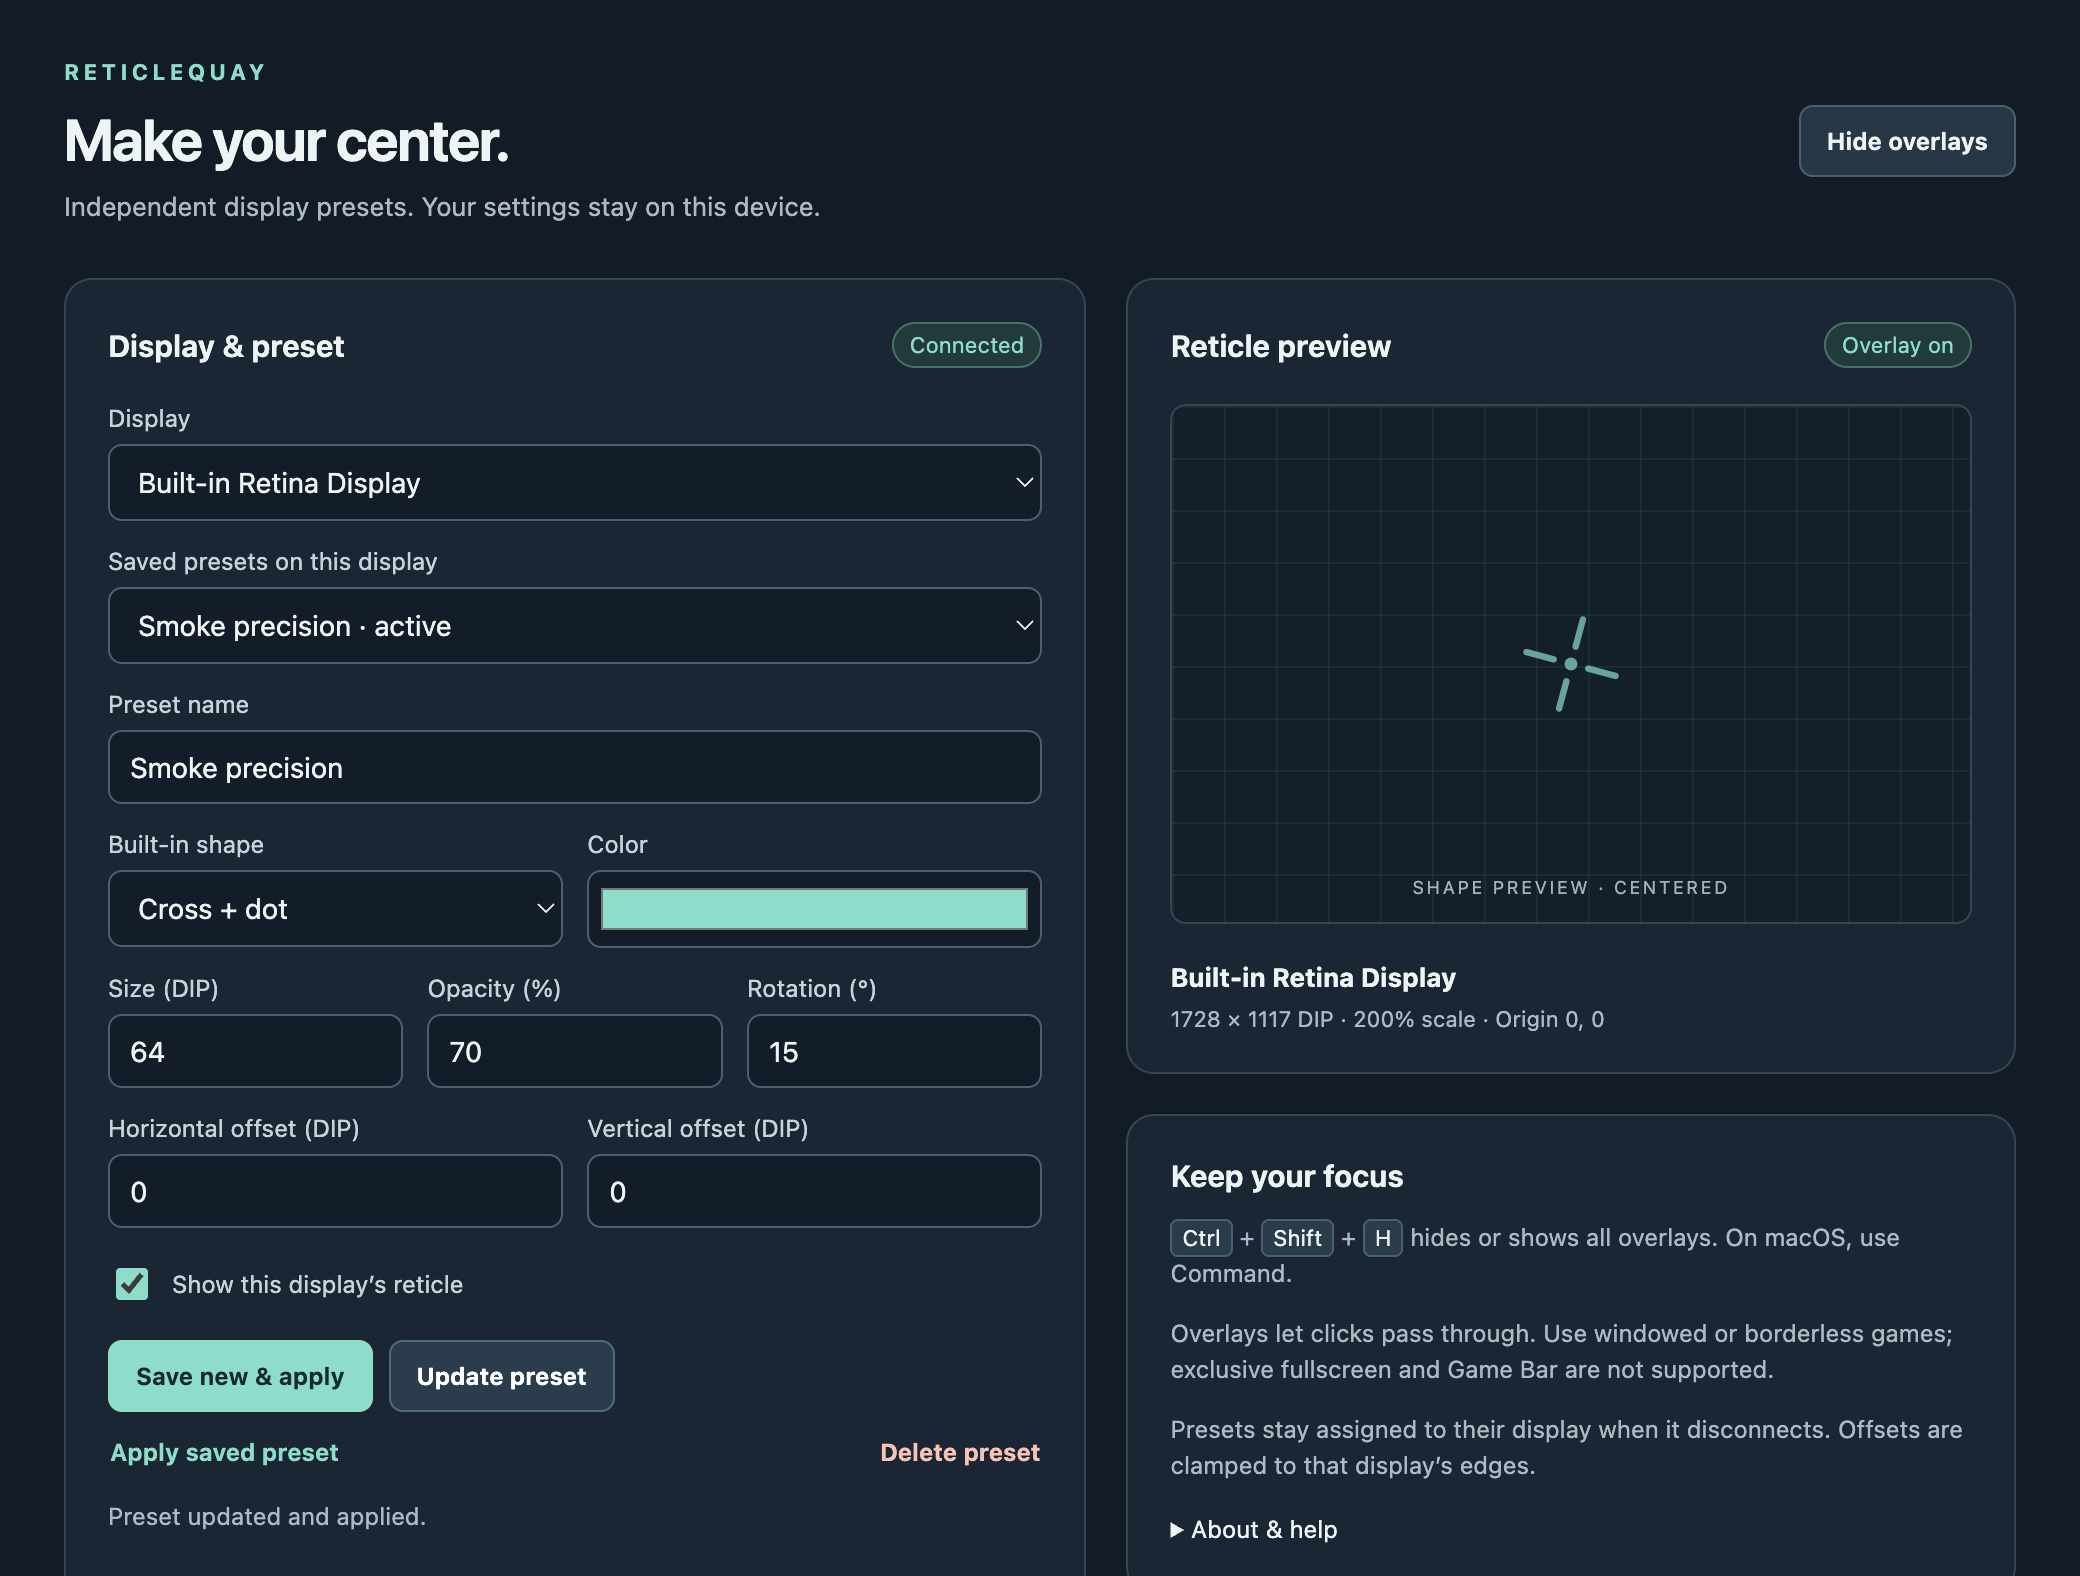
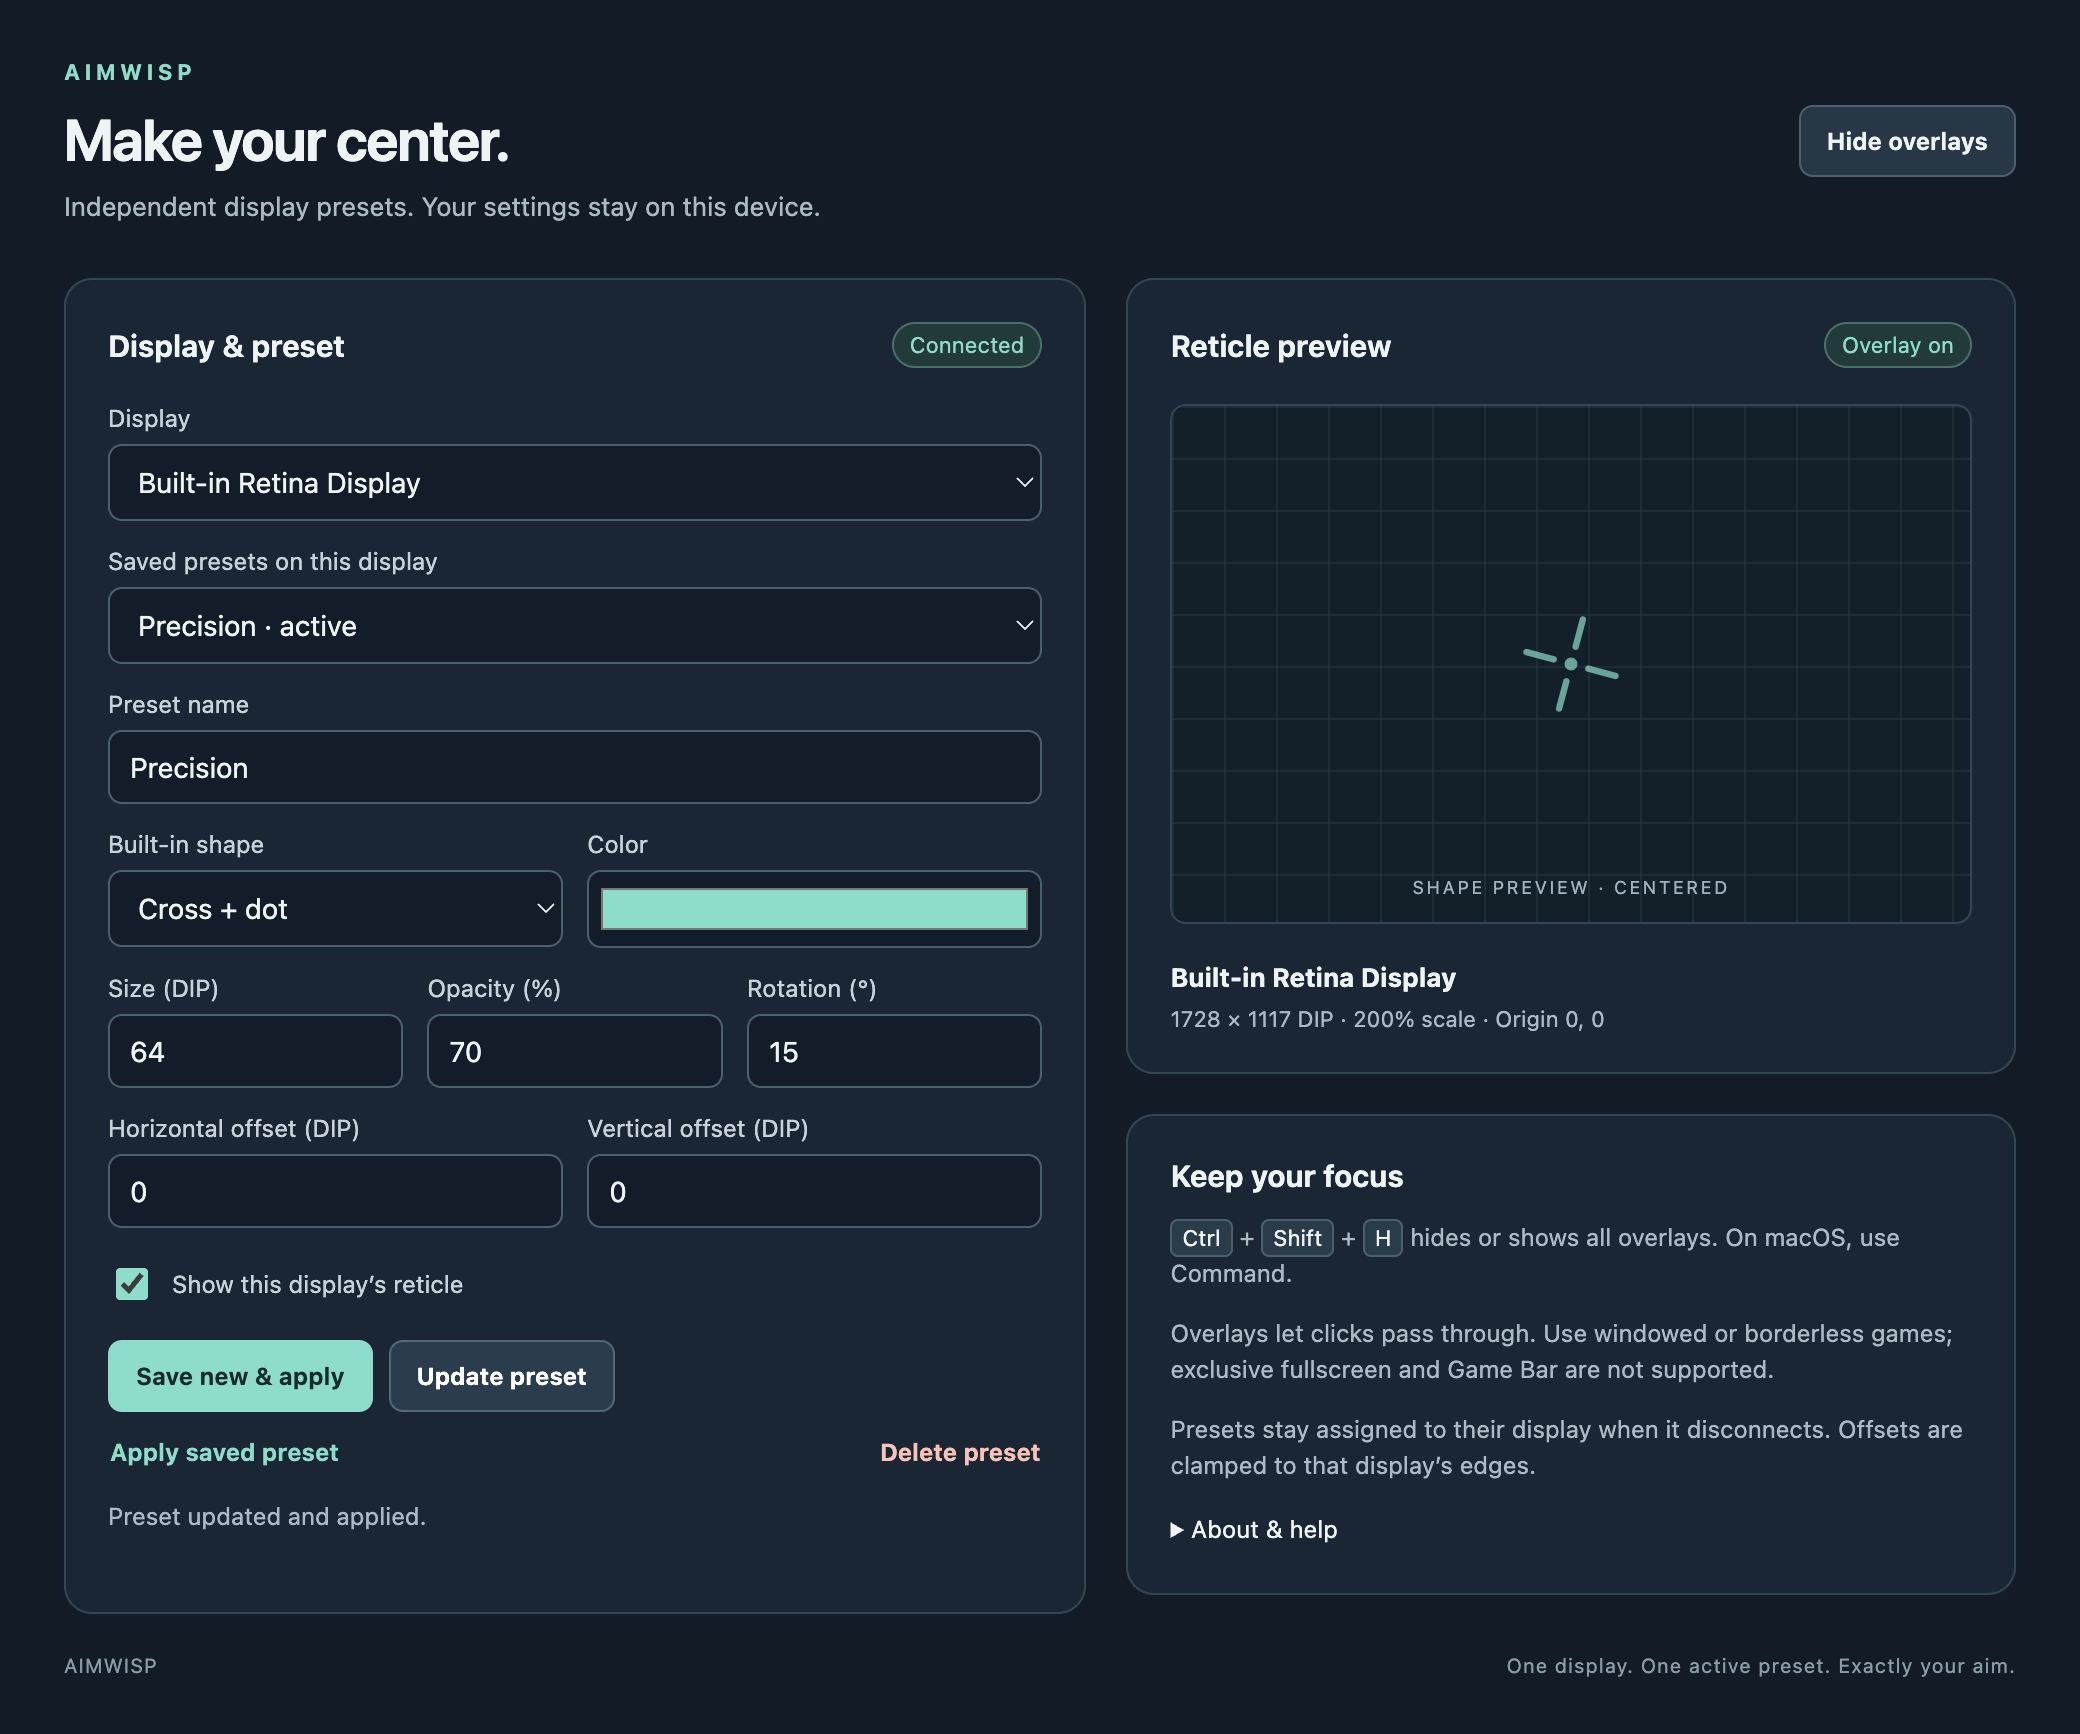
Rename the crosshair app to AimWisp and retain Store update identity

diff --git a/src/index.ts b/src/index.ts
@@ -20,7 +20,11 @@ import { SettingsSession } from "./settings-session";
 import { OverlayManager } from "./crosshair";
 import { secureProtocol, secureWindow } from "./security";
 import type { AppState, DisplayGeometry, Reply } from "./types";
-app.setName("ReticleQuay");
+// Keep existing presets across the customer-facing rename. Electron's explicit
+// --user-data-dir continues to select its own isolated location.
+if (!app.commandLine.hasSwitch("user-data-dir"))
+  app.setPath("userData", join(app.getPath("appData"), "ReticleQuay"));
+app.setName("AimWisp");
 protocol.registerSchemesAsPrivileged([
   {
     scheme: "reticlequay",
@@ -64,7 +68,7 @@ function refresh(): void {
     tray.setContextMenu(
       Menu.buildFromTemplate([
         {
-          label: "Open ReticleQuay",
+          label: "Open AimWisp",
           click: () => {
             controls?.show();
           },
@@ -77,7 +81,7 @@ function refresh(): void {
           },
         },
         { type: "separator" },
-        { label: "Quit ReticleQuay", click: () => app.quit() },
+        { label: "Quit AimWisp", click: () => app.quit() },
       ]),
     );
 }
@@ -115,7 +119,7 @@ else {
         minWidth: 760,
         minHeight: 680,
         backgroundColor: "#101b27",
-        title: "ReticleQuay",
+        title: "AimWisp",
         icon: join(app.getAppPath(), "public", "icon.png"),
         show: false,
         autoHideMenuBar: true,
@@ -185,8 +189,8 @@ else {
             if (target === "license") {
               await dialog.showMessageBox(controls!, {
                 type: "info",
-                title: "ReticleQuay licenses",
-                message: "ReticleQuay • Crosshair Y attribution",
+                title: "AimWisp licenses",
+                message: "AimWisp • Crosshair Y attribution",
                 detail:
                   (await readFile(join(app.getAppPath(), "LICENSE"), "utf8")) +
                   "\n\n" +
@@ -197,7 +201,7 @@ else {
               });
             } else if (target === "support" || target === "privacy")
               await shell.openExternal(
-                `https://reticlequay.trieflow.com/${target}`,
+                `https://aimwisp.trieflow.com/${target}`,
               );
             else throw new Error("Unsupported help target.");
             return { ok: true, state: state() };
@@ -239,7 +243,7 @@ else {
         tray = new Tray(
           nativeImage.createFromBitmap(pixels, { width: 16, height: 16 }),
         );
-        tray.setToolTip("ReticleQuay");
+        tray.setToolTip("AimWisp");
         tray.on("click", () => controls?.show());
       } catch {
         notice = (
@@ -252,7 +256,7 @@ else {
       refresh();
     })
     .catch((error) => {
-      console.error("ReticleQuay startup failed:", error);
+      console.error("AimWisp startup failed:", error);
       app.quit();
     });
 }

diff --git a/public/index.html b/public/index.html
@@ -3,7 +3,7 @@
   <head>
     <meta charset="UTF-8" />
     <meta name="viewport" content="width=device-width, initial-scale=1" />
-    <title>ReticleQuay</title>
+    <title>AimWisp</title>
     <link rel="stylesheet" href="/style.css" />
     <script src="/scripts/draw.js" defer></script>
     <script src="/scripts/main.js" defer></script>
@@ -12,7 +12,7 @@
     <div class="app">
       <header>
         <div>
-          <p class="eyebrow">RETICLEQUAY</p>
+          <p class="eyebrow">AIMWISP</p>
           <h1>Make your center.</h1>
           <p class="subtitle">
             Independent display presets. Your settings stay on this device.
@@ -180,23 +180,23 @@
             <details>
               <summary>About & help</summary>
               <p>
-                ReticleQuay 1.0.0 · Built-in shapes only. Custom image and SVG
+                AimWisp 1.0.1 · Built-in shapes only. Custom image and SVG
                 imports are not supported. No game-process access, telemetry, or
                 automatic updates.
               </p>
               <p>
                 Closing this window keeps overlays running in the tray. Choose
-                Quit ReticleQuay from the tray to exit.
+                Quit AimWisp from the tray to exit.
               </p>
               <div class="links">
                 <a
                   id="support-link"
-                  href="https://reticlequay.trieflow.com/support"
+                  href="https://aimwisp.trieflow.com/support"
                   data-help="support"
                   >Support</a
                 ><a
                   id="privacy-link"
-                  href="https://reticlequay.trieflow.com/privacy"
+                  href="https://aimwisp.trieflow.com/privacy"
                   data-help="privacy"
                   >Privacy</a
                 ><button type="button" class="text-button" data-help="license">
@@ -208,7 +208,7 @@
         </aside>
       </main>
       <footer>
-        <span>RETICLEQUAY</span
+        <span>AIMWISP</span
         ><span>One display. One active preset. Exactly your aim.</span>
       </footer>
     </div>

diff --git a/public/scripts/main.js b/public/scripts/main.js
@@ -156,7 +156,7 @@ async function command(value, success, reset = true) {
   if (busy) return;
   if (!state?.settingsWritable) {
     message(
-      state?.notice || "Presets are unavailable. Restart ReticleQuay.",
+      state?.notice || "Presets are unavailable. Restart AimWisp.",
       true,
     );
     return;
@@ -172,7 +172,7 @@ async function command(value, success, reset = true) {
     }
   } catch {
     message(
-      "Could not reach ReticleQuay. Restart the application and retry.",
+      "Could not reach AimWisp. Restart the application and retry.",
       true,
     );
   } finally {
@@ -226,7 +226,7 @@ for (const link of document.querySelectorAll("[data-help]"))
       if (!r.ok) message(r.error, true);
     } catch {
       message(
-        "Could not open help. Visit reticlequay.trieflow.com/support.",
+        "Could not open help. Visit aimwisp.trieflow.com/support.",
         true,
       );
     }
@@ -238,4 +238,4 @@ window.reticlequay
     if (result.ok) render(result.state, true);
     else message(result.error, true);
   })
-  .catch(() => message("Could not load settings. Restart ReticleQuay.", true));
+  .catch(() => message("Could not load settings. Restart AimWisp.", true));

diff --git a/src/settings-session.ts b/src/settings-session.ts
@@ -8,7 +8,7 @@ interface Store {
 }
 const READ_FAILURE =
   "Presets could not be read. Editing is disabled to protect your saved presets. " +
-  "Check read access to ReticleQuay’s presets.json and settings folder, then restart ReticleQuay.";
+  "Check read access to AimWisp’s presets.json and settings folder, then restart AimWisp.";
 
 /** Owns the loading prerequisite for every persisted settings mutation. */
 export class SettingsSession {

diff --git a/public/crosshair.html b/public/crosshair.html
@@ -2,7 +2,7 @@
 <html lang="en">
   <head>
     <meta charset="UTF-8" />
-    <title>ReticleQuay overlay</title>
+    <title>AimWisp overlay</title>
     <link rel="stylesheet" href="/crosshair.css" />
     <script src="/scripts/draw.js" defer></script>
     <script src="/scripts/crosshair.js" defer></script>

diff --git a/README.md b/README.md
@@ -1,4 +1,4 @@
-# ReticleQuay
+# AimWisp
 
 A local crosshair overlay with independent named presets for each connected display.
 A maintained MIT-licensed fork of [Crosshair Y](https://github.com/YSSF8/crosshair-y)
@@ -31,15 +31,15 @@ MSIX or a Store-certified package. [Build and validation notes](docs/reticlequay
 
 ## Help and licensing
 
-[Product](https://reticlequay.trieflow.com) ·
-[Support](https://reticlequay.trieflow.com/support) ·
-[Privacy](https://reticlequay.trieflow.com/privacy)
+[Product](https://aimwisp.trieflow.com) ·
+[Support](https://aimwisp.trieflow.com/support) ·
+[Privacy](https://aimwisp.trieflow.com/privacy)
 
 These canonical release endpoints are managed separately from this source task;
 their availability is a release gate, not established by an app build.
 
-Presets are in `presets.json` within Electron's ReticleQuay user-data directory
-(normally `%APPDATA%/ReticleQuay` on Windows). Corrupt settings are renamed to a
+Presets are in `presets.json` within the existing application user-data directory
+(`%APPDATA%/ReticleQuay` on Windows, retained so renamed updates preserve presets). Corrupt settings are renamed to a
 `presets.corrupt-*.json` recovery file. Save failures leave the last valid file
 and active state intact. A startup read error disables all settings commands;
 restore read access to presets.json and restart before editing. Successfully

diff --git a/THIRD_PARTY_NOTICES.md b/THIRD_PARTY_NOTICES.md
@@ -1,13 +1,13 @@
-# ReticleQuay third-party notices
+# AimWisp third-party notices
 
-ReticleQuay is an independently maintained fork of Crosshair Y 4.2 by YSSF8,
+AimWisp is an independently maintained fork of Crosshair Y 4.2 by YSSF8,
 starting at commit 51edd7201021b92382a0e32960d27c21c5c2341b.
 Upstream: https://github.com/YSSF8/Crosshair-Y
 Copyright (c) 2025 YSSF8. Licensed under MIT; the full upstream license is in LICENSE.
-The original history and author attribution are retained. ReticleQuay's changes,
+The original history and author attribution are retained. AimWisp's changes,
 including display presets, security boundaries, UI and geometric reticles, are
 Copyright (c) 2026 Trieflow LLC and distributed under that same MIT license.
-ReticleQuay is not affiliated with or endorsed by the upstream author.
+AimWisp is not affiliated with or endorsed by the upstream author.
 
 ## Bundled runtime
 
@@ -37,4 +37,4 @@ System UI fonts are referenced by family name and are not bundled.
 Upstream PNG reticles, icons, unaccompanied Raleway font, theme styles,
 raw SVG editor, downloader, and custom-elements assets were removed because
 independent provenance for these assets was not established during this audit.
-No upstream logo or product screenshots are distributed with ReticleQuay.
+No upstream logo or product screenshots are distributed with AimWisp.

diff --git a/docs/reticlequay-build.md b/docs/reticlequay-build.md
@@ -1,7 +1,7 @@
-# ReticleQuay build and verification
+# AimWisp build and verification
 
 Baseline: Crosshair Y 4.2, commit `51edd7201021b92382a0e32960d27c21c5c2341b`.
-Source branch: `codex/reticlequay`. Product version: `1.0.0`.
+Source branch: `codex/reticlequay`. Product version: `1.0.1`.
 
 ## Reproducible commands
 
